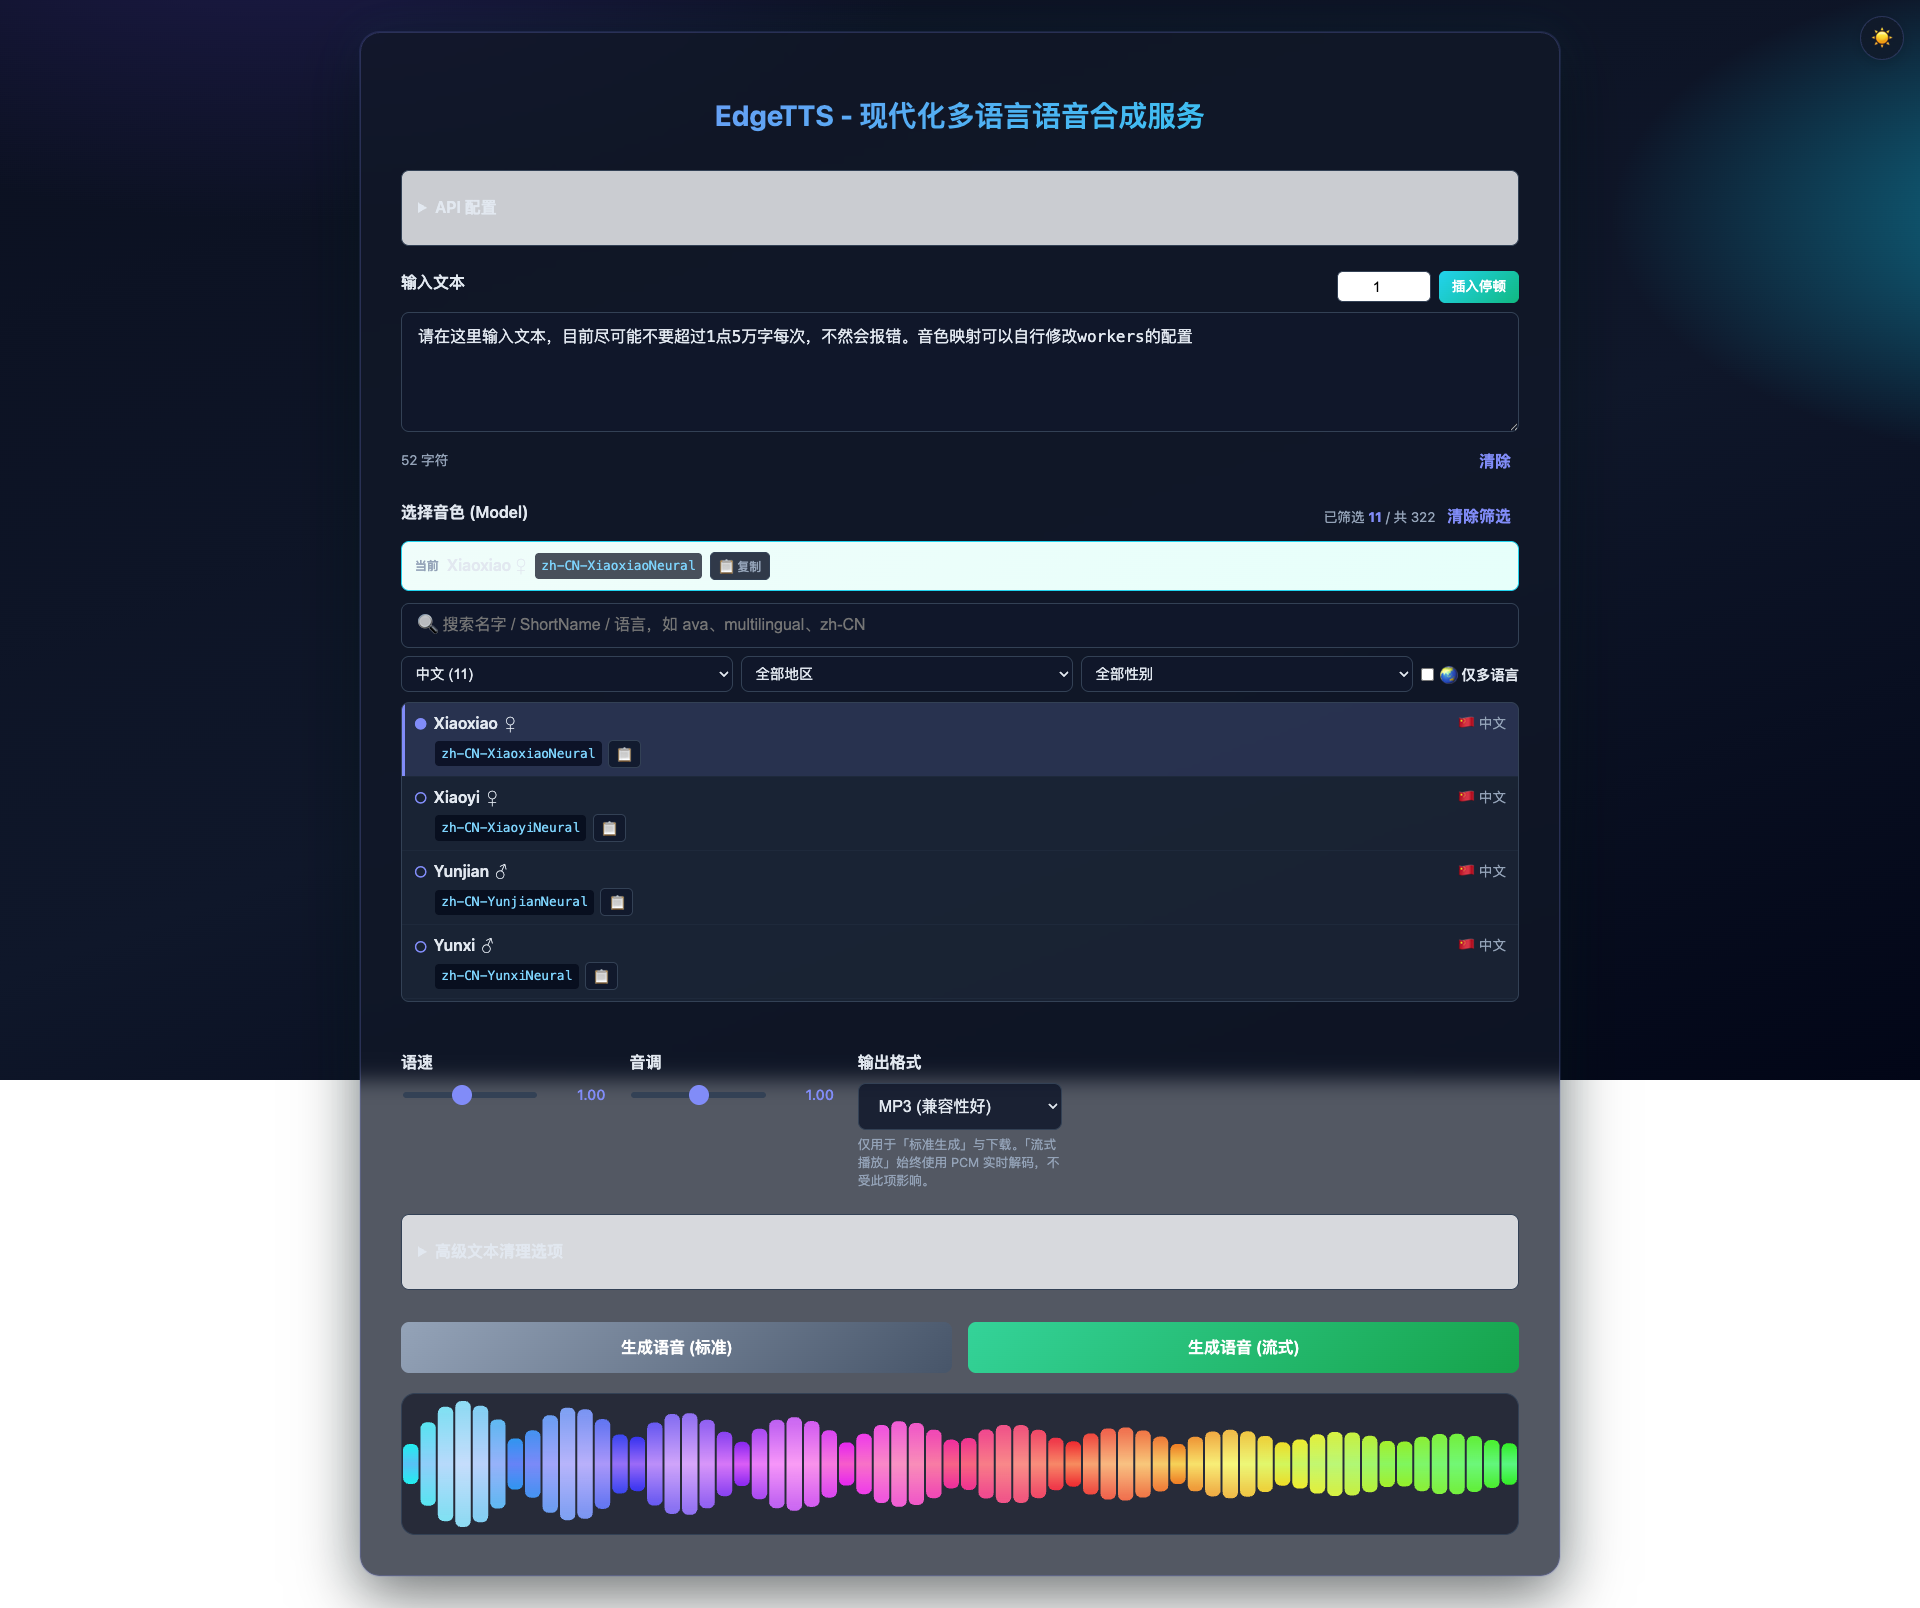
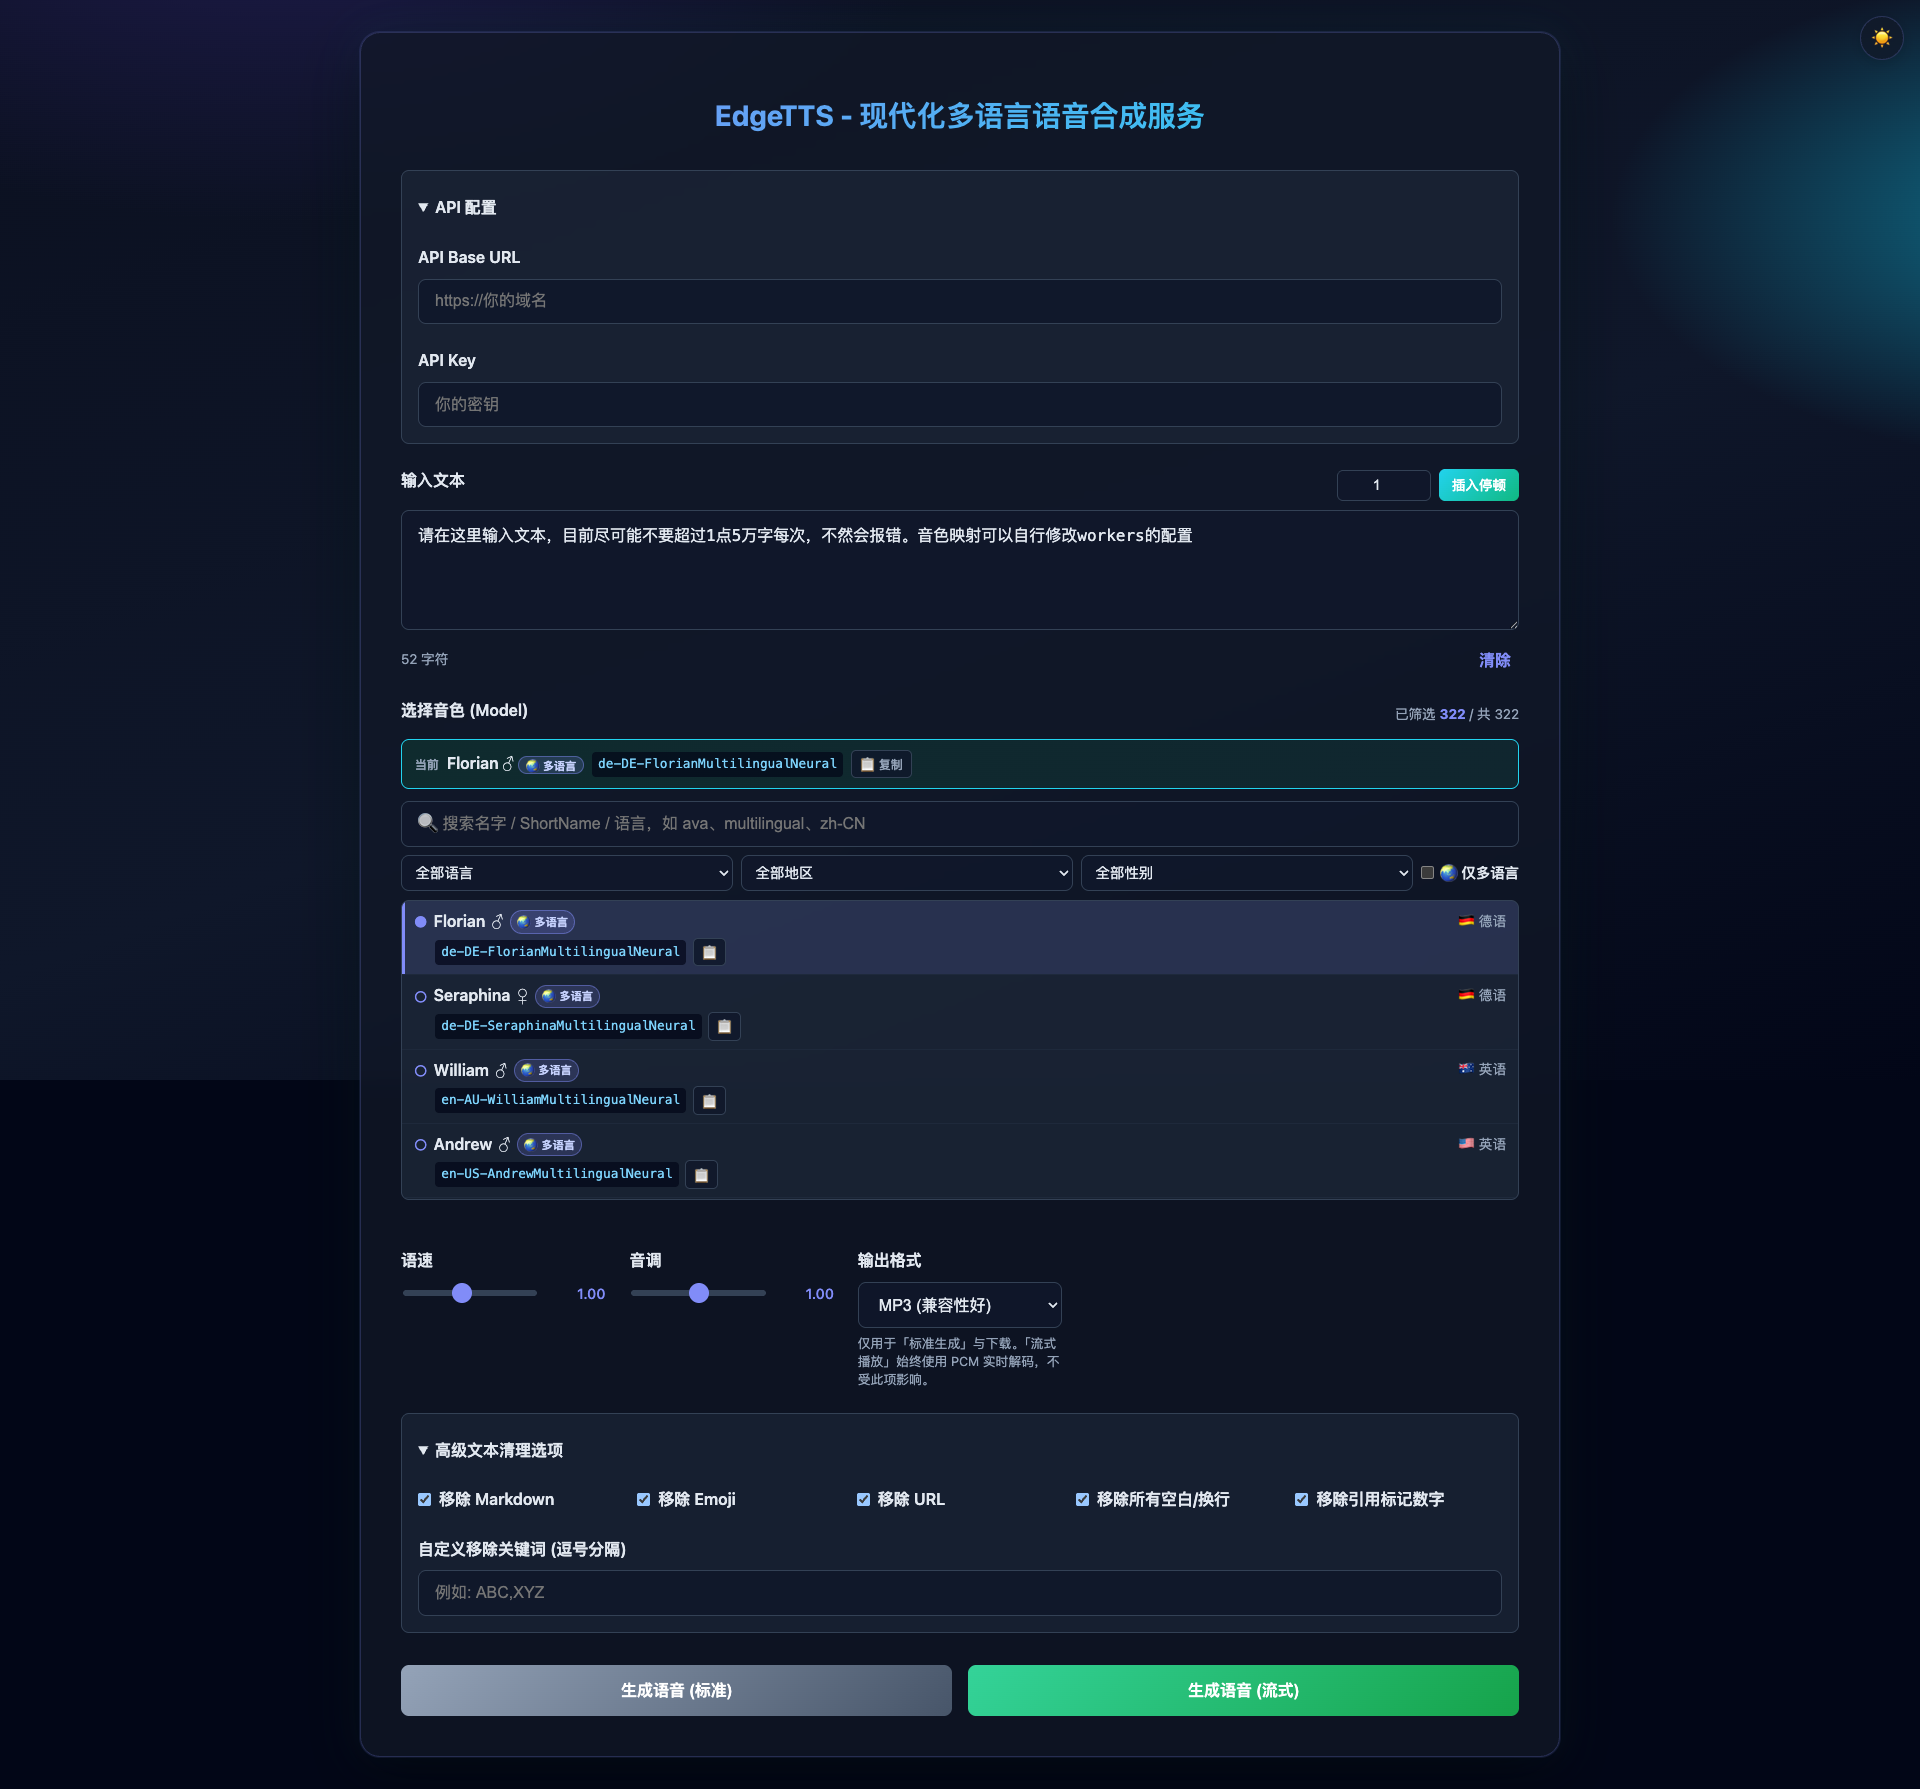
fix: 修复暗色主题多处仍为浅色的问题(v2.5.1)
用户截图反馈暗色下「API 配置」是灰白大块、「当前音色」条近白、停顿时长输入框白底。
排查发现是变量体系有缺口，不只是个别样式写错，因此按类修全：

- --mint-start/middle/end 在暗色主题完全没被覆盖 -> 页面背景与 .voice-current 变白
- details 背景写死 rgba(248,250,252,0.8)，改用 --subtle-bg
- .pause-input 是 type=number，不匹配 input[type=text] 选择器组，没继承 --input-bg，
  改为显式声明主题色
- 徽章与 info/success/error 状态条都是浅底深字硬编码，改为变量，暗色用深底亮字
- body 的 background-attachment: fixed 只覆盖视口，页面(1789px)高于视口(1080px)时
  下方约 700px 露出浏览器默认白底 -> 新增 --page-base 铺在 html 上兜底
- 补 color-scheme(原生滚动条/步进器跟随主题)与 select option 配色

另加一致性检查：找出被 var() 引用但暗色未覆盖的变量，防止同类缺口复发(当前 0 遗漏)。
明暗两主题在本地与线上都逐项核对过 computed style 并截图确认。
162 测试全绿；已部署生产并核实。

diff --git a/ui/index.html b/ui/index.html
@@ -32,6 +32,19 @@
       --code-bg: rgba(255, 255, 255, 0.75);
       --code-text: #334155;
       --viz-bg: rgba(255, 255, 255, 0.55);
+      --page-base: #f0fdfa;
+      --badge-bg: #ede9fe;
+      --badge-text: #6d28d9;
+      --badge-border: #ddd6fe;
+      --info-bg: #dbeafe;
+      --info-text: #1d4ed8;
+      --info-border: #93c5fd;
+      --ok-bg: #dcfce7;
+      --ok-text: #166534;
+      --ok-border: #86efac;
+      --err-bg: #fee2e2;
+      --err-text: #dc2626;
+      --err-border: #fca5a5;
     }
 
     /* 暗夜霓虹主题 —— 深空底色 + 青/紫霓虹强调 */
@@ -45,6 +58,11 @@
       --border-color: #334155;
       --text-color: #e2e8f0;
       --mint-accent: #22d3ee;
+      /* mint-* 原本是近白的薄荷色，暗色下必须一起覆盖，否则任何用到它们的元素
+         （页面背景、.voice-current 当前音色条）都会变成一大块白。 */
+      --mint-start: #0f2b2e;
+      --mint-middle: #10262f;
+      --mint-end: #1a1130;
       --page-bg: radial-gradient(1200px 600px at 15% -10%, #1e1b4b 0%, transparent 55%),
                  radial-gradient(1000px 500px at 110% 20%, #0e7490 0%, transparent 50%),
                  linear-gradient(160deg, #0b1020 0%, #0f172a 55%, #020617 100%);
@@ -58,6 +76,31 @@
       --code-bg: rgba(2, 6, 23, 0.7);
       --code-text: #7dd3fc;
       --viz-bg: rgba(2, 6, 23, 0.55);
+      --page-base: #020617;
+      /* 徽章与状态条：浅底深字在暗色下会像贴纸，改成深底亮字 */
+      --badge-bg: rgba(129, 140, 248, 0.18);
+      --badge-text: #c7d2fe;
+      --badge-border: rgba(129, 140, 248, 0.45);
+      --info-bg: rgba(37, 99, 235, 0.18);
+      --info-text: #bfdbfe;
+      --info-border: rgba(59, 130, 246, 0.45);
+      --ok-bg: rgba(22, 163, 74, 0.18);
+      --ok-text: #bbf7d0;
+      --ok-border: rgba(34, 197, 94, 0.45);
+      --err-bg: rgba(220, 38, 38, 0.18);
+      --err-text: #fecaca;
+      --err-border: rgba(248, 113, 113, 0.45);
+    }
+
+    /* 让原生控件(滚动条、number 步进器、下拉箭头)跟随主题；
+       只靠自定义 CSS 管不到这些浏览器绘制的部件。 */
+    :root { color-scheme: light; }
+    [data-theme="dark"] { color-scheme: dark; }
+
+    /* 原生 select 展开后的选项由系统绘制，不显式指定的话暗色下可能是浅字浅底 */
+    select option {
+      background-color: var(--input-bg);
+      color: var(--text-color);
     }
 
     * {
@@ -67,6 +110,10 @@
     html {
       padding: 0;
       margin: 0;
+      /* body 用 background-attachment: fixed，只覆盖视口大小；页面比视口高时，
+         超出部分会露出浏览器默认白底(实测页面 1789px / 视口 1080px，下方 700px 发灰)。
+         给 html 铺一层同色兜底即可，滚动到底也是连续的深色。 */
+      background-color: var(--page-base);
     }
 
     body {
@@ -223,9 +270,9 @@
       font-weight: 600;
       padding: 0.1rem 0.4rem;
       border-radius: 999px;
-      background: #ede9fe;
-      color: #6d28d9;
-      border: 1px solid #ddd6fe;
+      background: var(--badge-bg);
+      color: var(--badge-text);
+      border: 1px solid var(--badge-border);
       white-space: nowrap;
     }
 
@@ -422,6 +469,8 @@
       gap: 0.5rem;
     }
 
+    /* type=number 不匹配上面 input[type=text] 那组选择器，必须自己声明主题色，
+       否则暗色下这个停顿时长输入框是个白底方块。 */
     .pause-input {
       width: 6.5em;
       padding: 0.4rem 0.6rem;
@@ -429,6 +478,9 @@
       border-radius: 6px;
       font-size: 0.9rem;
       text-align: center;
+      background-color: var(--input-bg);
+      color: var(--text-color);
+      transition: background-color 0.3s, color 0.3s, border-color 0.2s;
     }
 
     .pause-input:focus {
@@ -567,21 +619,21 @@
     }
 
     .status-info {
-      background-color: #dbeafe;
-      color: #1d4ed8;
-      border: 1px solid #93c5fd;
+      background-color: var(--info-bg);
+      color: var(--info-text);
+      border: 1px solid var(--info-border);
     }
 
     .status-success {
-      background-color: #dcfce7;
-      color: #166534;
-      border: 1px solid #86efac;
+      background-color: var(--ok-bg);
+      color: var(--ok-text);
+      border: 1px solid var(--ok-border);
     }
 
     .status-error {
-      background-color: #fee2e2;
-      color: #dc2626;
-      border: 1px solid #fca5a5;
+      background-color: var(--err-bg);
+      color: var(--err-text);
+      border: 1px solid var(--err-border);
     }
 
     audio {
@@ -624,7 +676,9 @@
       border-radius: 8px;
       padding: 1rem;
       margin-bottom: 1.5rem;
-      background-color: rgba(248, 250, 252, 0.8);
+      /* 用主题变量而不是写死的近白色，否则暗色下「API 配置」是一大块灰白 */
+      background-color: var(--subtle-bg);
+      transition: background-color 0.3s, border-color 0.3s;
     }
 
     summary {

diff --git a/CHANGELOG.md b/CHANGELOG.md
@@ -1,5 +1,24 @@
 # Changelog
 
+## [2.5.1] - 2026-08-04
+
+### Fixed
+暗色主题多处元素仍是浅色（用户截图反馈）。根因是变量体系有缺口，不只是个别样式写错：
+
+- `--mint-start/middle/end`（近白的薄荷色）在暗色主题**完全没被覆盖**，导致页面背景
+  与「当前音色」条变成大块白。
+- `details`（API 配置 / 高级文本清理）背景写死 `rgba(248,250,252,0.8)`，未走变量。
+- `.pause-input` 是 `type=number`，不匹配 `input[type=text]` 那组选择器，因此没继承
+  `--input-bg`，暗色下是白底方块。
+- 徽章与三种状态条（info/success/error）都是浅底深字硬编码，暗色下像贴纸；改为
+  `--badge-* / --info-* / --ok-* / --err-*` 变量，暗色用深底亮字。
+- `body` 的 `background-attachment: fixed` 只覆盖视口，页面（1789px）高于视口（1080px）时
+  下方约 700px 露出浏览器默认白底；新增 `--page-base` 铺在 `html` 上兜底。
+- 补 `color-scheme`（滚动条 / number 步进器等原生部件跟随主题）与 `select option` 配色。
+
+同时加了一条一致性检查：列出 `:root` 中被 `var()` 引用但暗色未覆盖的变量，防止再出现
+同类缺口（当前为 0 遗漏）。明暗两主题均已在浏览器与线上逐项核对。
+
 ## [2.5.0] - 2026-08-04
 
 ### Added
